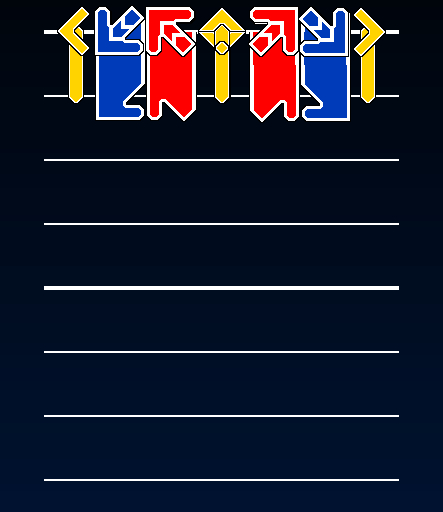
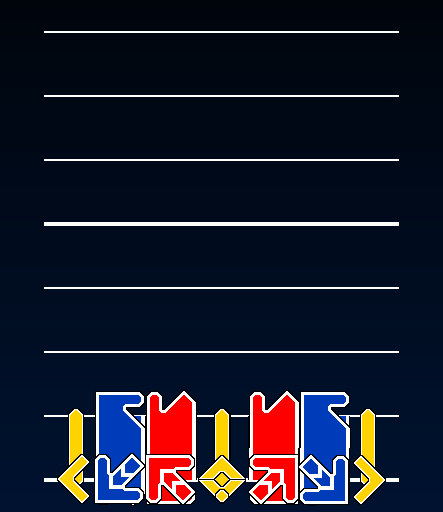
Expose reverse to NoteClass

Changed region(s): [[0.1174, 0.75, 0.8804, 1.0], [0.1174, 0.0, 0.8804, 0.25]]

diff --git a/measure/noteskins/ds3ddx/default/config.js b/measure/noteskins/ds3ddx/default/config.js
@@ -116,7 +116,9 @@ const config = {
    * @param {number} lane
    * @returns {Promise<any>}
    */
-  collectAsset: async (asset, timing, endChar, notetype, lane, styleconfig, style) => {
+  collectAsset: async (asset, timing, endChar, notetype, lane, styleconfig, style, NoteClass) => {
+    const graphicName = lane >= 5 && !laneName(style, lane).includes('Hand') ? laneName(style, lane).replace('Left', 'Right') : laneName(style, lane)
+
     switch (asset) {
       case 'fake': {
         const note = await jimp.read(
@@ -139,63 +141,46 @@ const config = {
         return note;
       }
       case "holdTop": {
-        const holdTop = await jimp.read(path.join(__dirname, `/holdTop/${laneName(style, lane)}.png`));
+        const holdTop = await jimp.read(path.join(__dirname, `/holdTop/${graphicName}.png`));
 
         holdTop.resize(64, 64);
-
-        if ([5, 6].includes(lane)) {
-          holdTop.flip(false, true)
-          holdTop.rotate(180)
-        }
 
         return holdTop;
       }
       case "holdBody": {
-        const body = await jimp.read(path.join(__dirname, `/holdBody/${laneName(style, lane)}.png`));
+        const body = await jimp.read(path.join(__dirname, `/holdBody/${graphicName}.png`));
 
         // Resizing hold/roll bodies are not done here.
 
         return body;
       }
       case "holdBottom": {
-        const bottom = await jimp.read(path.join(__dirname, `/holdBottom/${laneName(style, lane)}.png`));
+        const bottom = await jimp.read(path.join(__dirname, `/holdBottom/${graphicName}.png`));
 
         bottom.resize(64, 64);
-
-        if ([5, 6].includes(lane)) {
-          bottom.flip(false, true)
-          bottom.rotate(180)
-        }
 
         return bottom;
       }
       case "rollTop": {
-        const rollTop = await jimp.read(path.join(__dirname, `/rollTop/${laneName(style, lane)}.png`));
+        // TODO: Cut the graphics to be able to flip them, right new they also include part of body.
+        const rollTop = await jimp.read(path.join(__dirname, `/rollTop/${graphicName}.png`));
 
         rollTop.resize(64, 64);
-        if ([5, 6].includes(lane)) {
-          rollTop.flip(false, true)
-          rollTop.rotate(180)
-        }
 
         return rollTop;
       }
       case "rollBody": {
-        const body = await jimp.read(path.join(__dirname, `/rollBody/${laneName(style, lane)}.png`));
+        const body = await jimp.read(path.join(__dirname, `/rollBody/${graphicName}.png`));
 
         // Resizing hold/roll bodies are not done here.
 
         return body;
       }
       case "rollBottom": {
-        const bottom = await jimp.read(path.join(__dirname, `/rollBottom/${laneName(style, lane)}.png`));
+        const bottom = await jimp.read(path.join(__dirname, `/rollBottom/${graphicName}.png`));
 
         bottom.resize(64, 64);
 
-        if ([5, 6].includes(lane)) {
-          bottom.flip(false, true)
-          bottom.rotate(180)
-        }
 
         return bottom;
       }

diff --git a/measure/index.js b/measure/index.js
@@ -7,7 +7,7 @@ const main = async () => {
   // Selected mode/style input
   const curMode = 'ds3ddx';
   const curStyle = 'single' || defaultstyle.defaultstyle[curMode];
-  const reverse = false;
+  const reverse = true;
   const showMeasureLines = true;
   const curModeOFStyle = (curMode) => {
     if (curMode.includes('kb')) return 'kbx'
@@ -16,7 +16,7 @@ const main = async () => {
   }
 
   // Noteskin
-  const NoteSkin = new NoteSkinFile.NoteSkinClass(curMode, curStyle);
+  const NoteSkin = new NoteSkinFile.NoteSkinClass(curMode, curStyle, reverse);
 
   // Measure Width
   const measureWidth = NoteSkin.styleconfig.measureWidth || 254;
@@ -271,7 +271,13 @@ const main = async () => {
               if (reverse) {
                 holdTop.flip(false, true);
               }
-              background.blit(holdTop, noteX, reverse ? noteY + 32 : noteY);
+              switch (curMode) {
+                case 'ds3ddx':
+                  background.blit(holdTop, noteX, noteY);
+                  break;
+                default:
+                  background.blit(holdTop, noteX, reverse ? noteY + 32 : noteY);
+              }
 
               if (willHeadEnd(curLane, line + 1, measure)) {
                 // In case you're asking where is the note rendering, it is only rendered on the 3 noteType.
@@ -383,7 +389,6 @@ const main = async () => {
               const bottom = await NoteSkin.collectAsset(`${bodyName}Bottom`, timing, endChar, noteType, curLane);
 
               if (reverse) {
-
                 bottom.flip(false, true);
               }
 

diff --git a/measure/noteskin.js b/measure/noteskin.js
@@ -1,9 +1,10 @@
 const fs = require('fs')
 
 exports.NoteSkinClass = class NoteSkin {
-  constructor(mode, style = 'single') {
+  constructor(mode, style = 'single', reverse) {
     this.mode = mode
     this.style = style
+    this.reverse = reverse
     this.styledata = JSON.parse( fs.readFileSync('./styledata.json', { encoding: 'utf-8' }) )
     this.styleconfig = this.styledata[this.mode][style]
     this.noteskin = this.styleconfig.defaultNoteskin || 'default'
@@ -13,7 +14,7 @@ exports.NoteSkinClass = class NoteSkin {
   }
 
   async collectAsset(asset, timing, endChar, notetype, lane) {
-    const assetJimp = await this.noteskinConfig.collectAsset(asset, timing, endChar, notetype, lane, this.styleconfig, this.style, this.mode)
+    const assetJimp = await this.noteskinConfig.collectAsset(asset, timing, endChar, notetype, lane, this.styleconfig, this.style, this.mode, this)
 
     return assetJimp
   }
